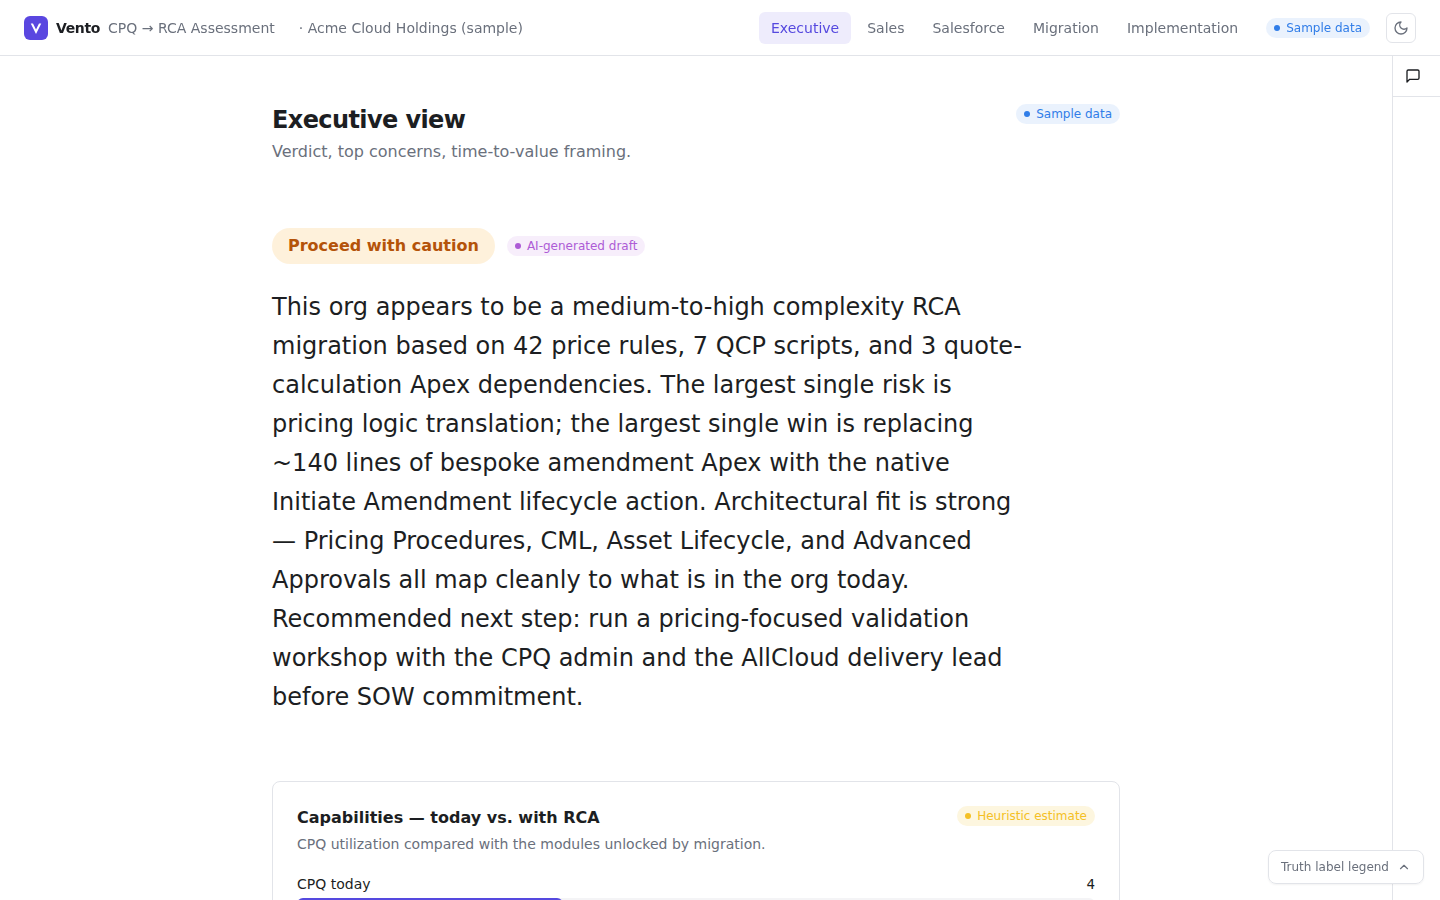
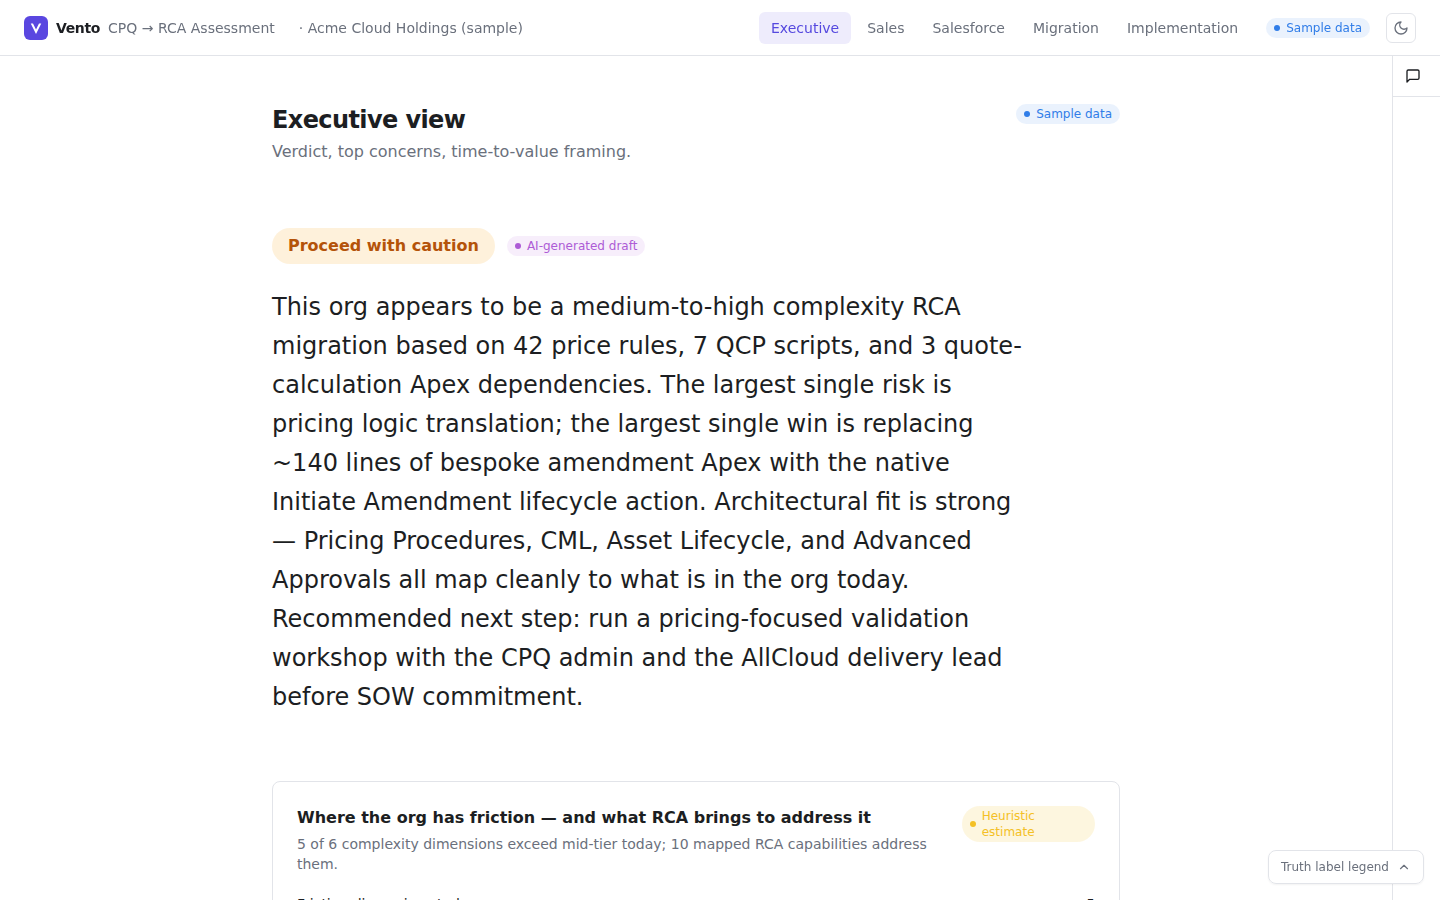
M2 fixes — hero visual derivation; lock time-to-value source
1. HeroVisual: replaced synthetic baseline with payload-traced data.
   Bar 1 = count of complexityScores.dimensions[*] where score > 50
           (5 of 6 — friction threshold marks Low/Medium boundary).
   Bar 2 = rcaBenefitMapping.length (10 — entries pair CPQ pain points
           with RCA capabilities).
   Caption explicitly names both sources. Story shifts from synthetic
   capability-surfaces to "5 of 6 complexity dimensions exceed mid-
   tier today; 10 mapped RCA capabilities address them."

2. TimeToValue: added a source-locking comment ensuring the "Z modules"
   value continues to track the same field as the capability tile
   grid (rcaOpportunities.length = 8). No behavioural change.

Changed region(s): [[0.1875, 0.9022, 0.6562, 1.0], [0.6562, 0.9022, 0.7812, 0.9333]]

diff --git a/sf-demo/src/components/layers/executive/HeroVisual.tsx b/sf-demo/src/components/layers/executive/HeroVisual.tsx
@@ -5,26 +5,38 @@ type Props = {
   payload: AssessmentPayload;
 };
 
+const FRICTION_THRESHOLD = 50;
+
 /**
- * Two-bar comparison: capability surfaces in use today (CPQ baseline) vs.
- * the same set plus RCA opportunities unlocked.
+ * Two-bar comparison: complexity dimensions that exceed mid-tier today
+ * vs. RCA capabilities mapped to address them.
  *
- * Heuristic — the bar values do not come from a single payload field but
- * are derived: CPQ baseline = a fixed surface count of 4 (pricing,
- * configuration, approvals, contracts) per the customer profile; RCA
- * upside = baseline + rcaOpportunities.length.
+ * Both bars trace to specific payload fields:
+ *   Bar 1 = count of complexityScores.dimensions[*] where score > 50
+ *   Bar 2 = rcaBenefitMapping.length
+ *
+ * The threshold (50) marks the boundary between Low and Medium complexity
+ * tiers in the demo profile.
  */
 export function HeroVisual({ payload }: Props) {
-  const cpqToday = 4;
-  const rcaTotal = cpqToday + payload.rcaOpportunities.length;
-  const max = Math.max(rcaTotal, 1);
+  const dimensionEntries = Object.entries(payload.complexityScores.dimensions) as Array<
+    [string, AssessmentPayload['complexityScores']['dimensions'][keyof AssessmentPayload['complexityScores']['dimensions']]]
+  >;
+  const totalDimensions = dimensionEntries.length;
+  const frictionDimensions = dimensionEntries.filter(([, d]) => d.score > FRICTION_THRESHOLD).length;
+  const mappedCapabilities = payload.rcaBenefitMapping.length;
+  const max = Math.max(frictionDimensions, mappedCapabilities, 1);
 
   const bars = [
-    { label: 'CPQ today', value: cpqToday, hint: 'Capability surfaces in active use' },
     {
-      label: 'With Revenue Cloud Advanced',
-      value: rcaTotal,
-      hint: `${cpqToday} preserved + ${payload.rcaOpportunities.length} unlocked`,
+      label: 'Friction dimensions today',
+      value: frictionDimensions,
+      hint: `${frictionDimensions} of ${totalDimensions} complexity dimensions score above ${FRICTION_THRESHOLD}`,
+    },
+    {
+      label: 'RCA capabilities mapped to address them',
+      value: mappedCapabilities,
+      hint: `${mappedCapabilities} entries in rcaBenefitMapping pair CPQ pain points with RCA capabilities`,
     },
   ];
 
@@ -33,10 +45,11 @@ export function HeroVisual({ payload }: Props) {
       <header className="mb-5 flex items-start justify-between gap-4">
         <div>
           <h2 className="text-base font-semibold text-foreground">
-            Capabilities — today vs. with RCA
+            Where the org has friction — and what RCA brings to address it
           </h2>
           <p className="mt-1 text-sm text-muted-foreground">
-            CPQ utilization compared with the modules unlocked by migration.
+            {frictionDimensions} of {totalDimensions} complexity dimensions exceed mid-tier today;{' '}
+            {mappedCapabilities} mapped RCA capabilities address them.
           </p>
         </div>
         <TruthLabel variant="heuristic" />
@@ -63,6 +76,11 @@ export function HeroVisual({ payload }: Props) {
           );
         })}
       </div>
+
+      <p className="mt-4 text-xs italic text-muted-foreground">
+        Sources: complexityScores.dimensions (count where score &gt; {FRICTION_THRESHOLD}),
+        rcaBenefitMapping.length.
+      </p>
     </section>
   );
 }

diff --git a/sf-demo/src/components/layers/executive/TimeToValue.tsx b/sf-demo/src/components/layers/executive/TimeToValue.tsx
@@ -6,6 +6,8 @@ type Props = { payload: AssessmentPayload };
 
 export function TimeToValue({ payload }: Props) {
   const loe = payload.loeEstimate;
+  // Source: rcaOpportunities.length. Must match the count of capability tiles
+  // rendered by ExecutiveLayer's "RCA capabilities unlocked" grid.
   const moduleCount = payload.rcaOpportunities.length;
 
   return (
